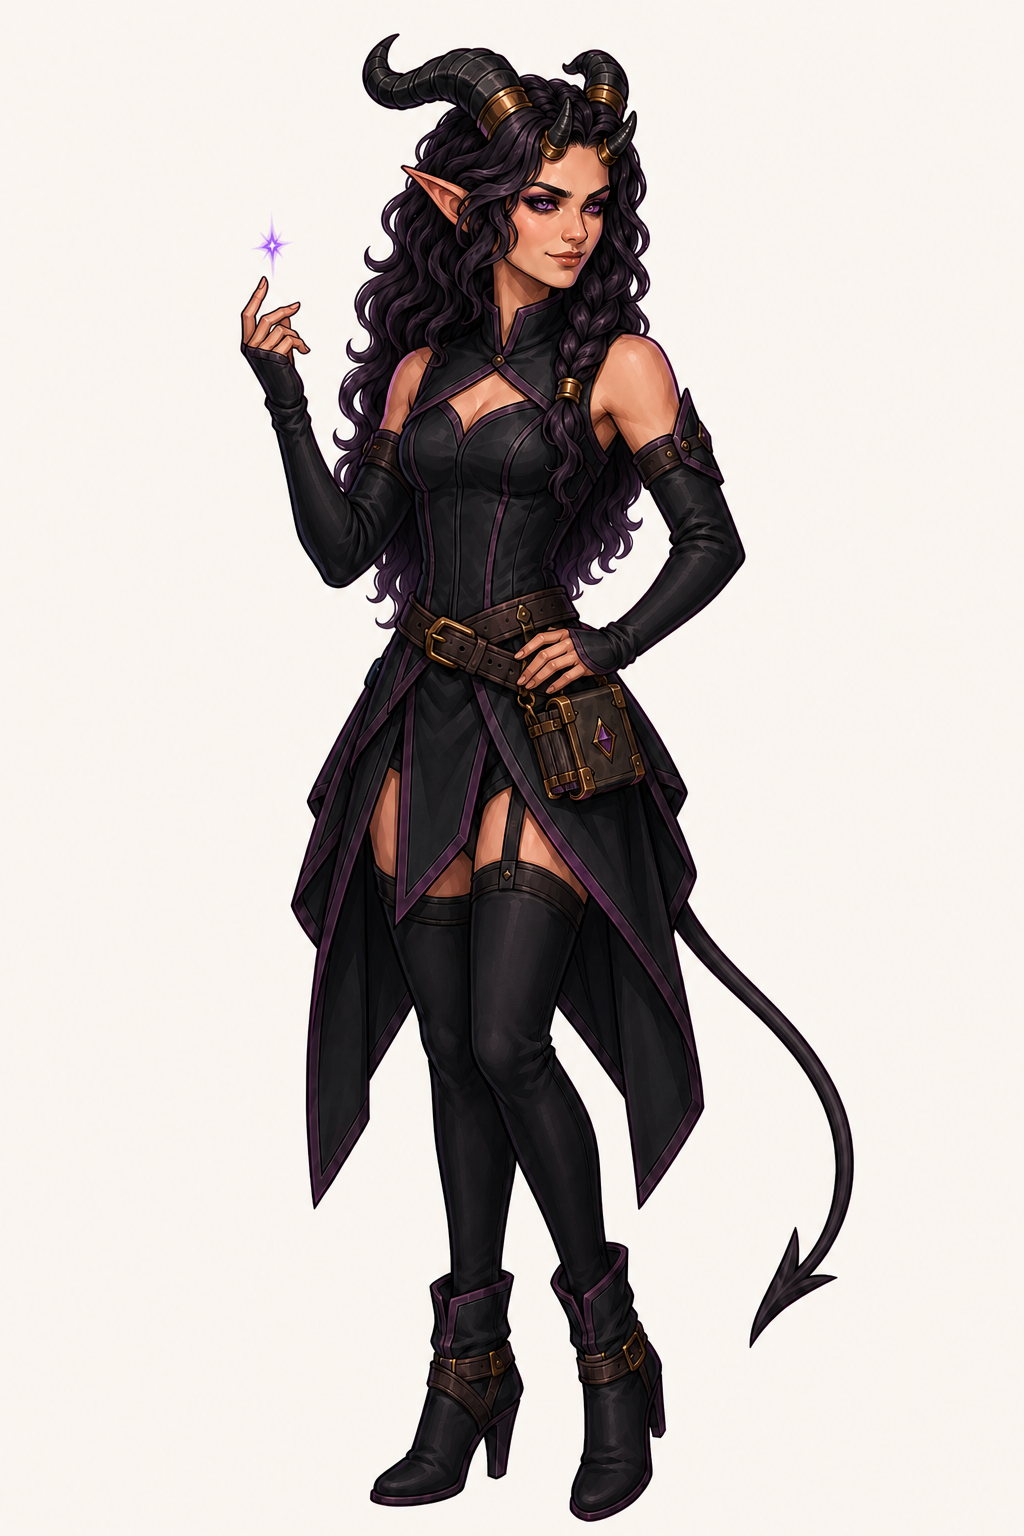
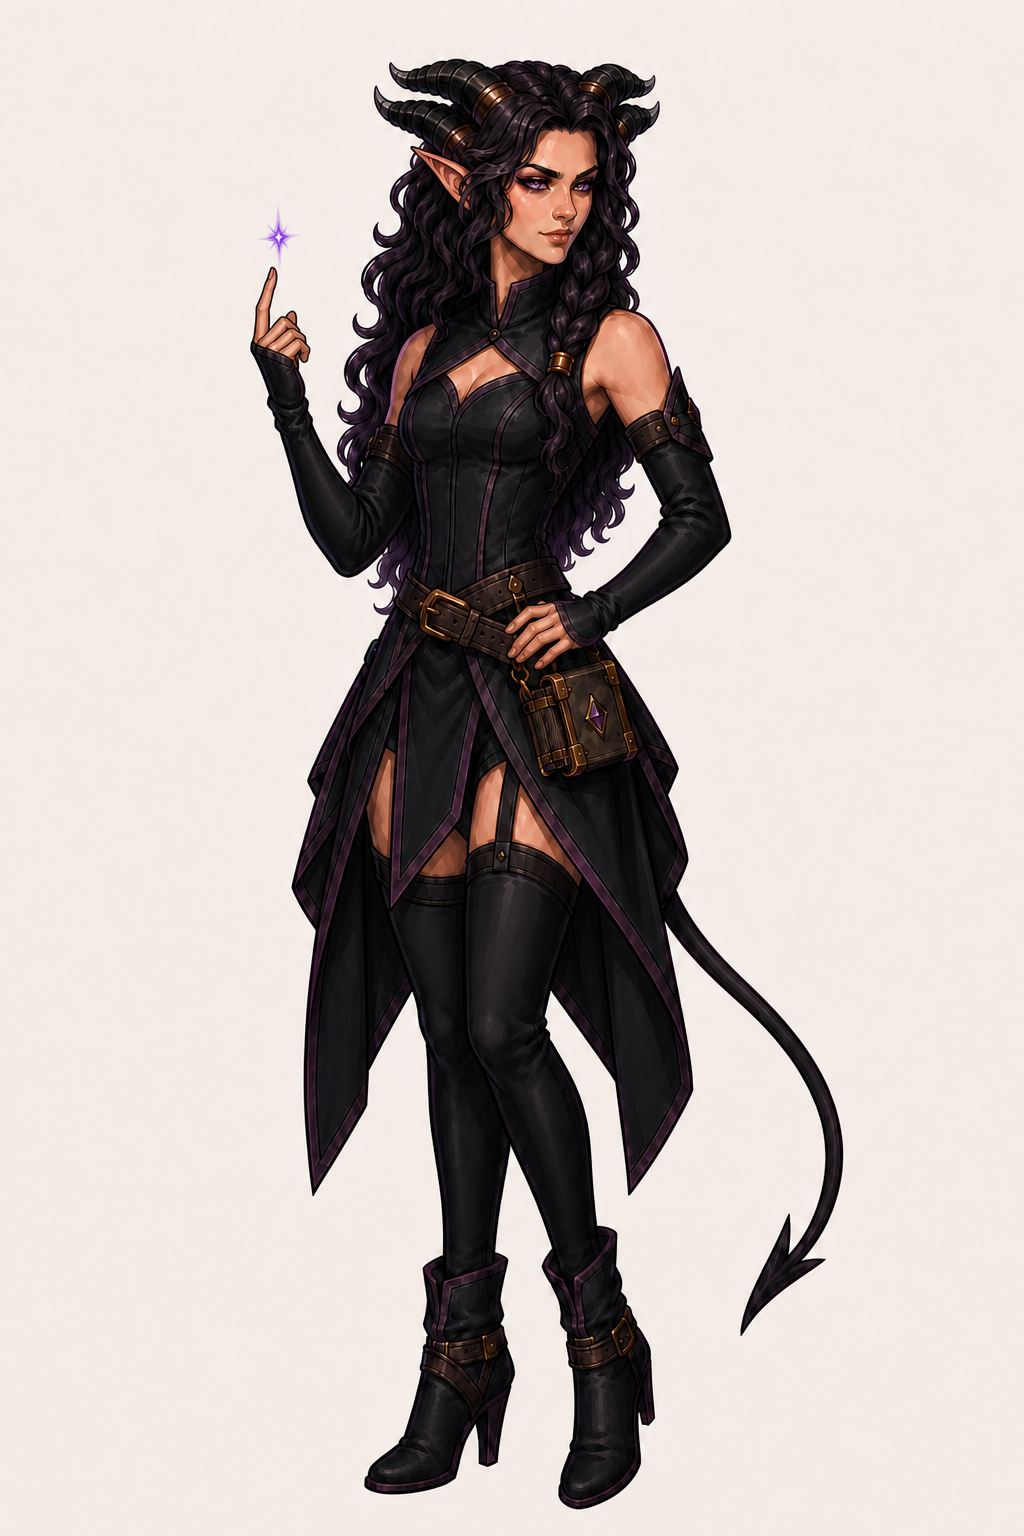
Перерисовать Сильви с двойными рогами

diff --git a/md/assets/mascots/sylvie/README.md b/md/assets/mascots/sylvie/README.md
@@ -12,10 +12,11 @@
   и чёрные зрачки; длинные заострённые уши;
 - объёмные волнистые волосы чёрно-фиолетового цвета до талии и одна толстая
   коса до пояса с бронзовой обоймой;
-- ровно четыре обсидиановых рога: два небольших отдельных рога в верхней
-  центральной части лба и два крупных ребристых рога за ними, уходящих назад;
-  между малыми рогами остаётся чистая прядь волос, центрального пятого рога нет;
-- сдержанные бронзовые обоймы на рогах;
+- ровно четыре ребристых обсидиановых рога: по два близких параллельных рога с
+  каждой стороны головы; обе пары начинаются за макушкой, низко проходят вдоль
+  волос и уходят назад, а дальняя пара естественно сокращается перспективой;
+- отдельных лобных рогов и центрального пятого рога нет; на основаниях четырёх
+  рогов находятся сдержанные бронзовые обоймы, кончики слегка высветлены;
 - симметричный компактный угольно-чёрный корсет до талии с небольшим вырезом,
   геометрической прострочкой без рун и отдельными длинными перчатками-рукавами;
 - пояс с одним компактным бронзовым фолиантом, угловатые тёмные фалды со
